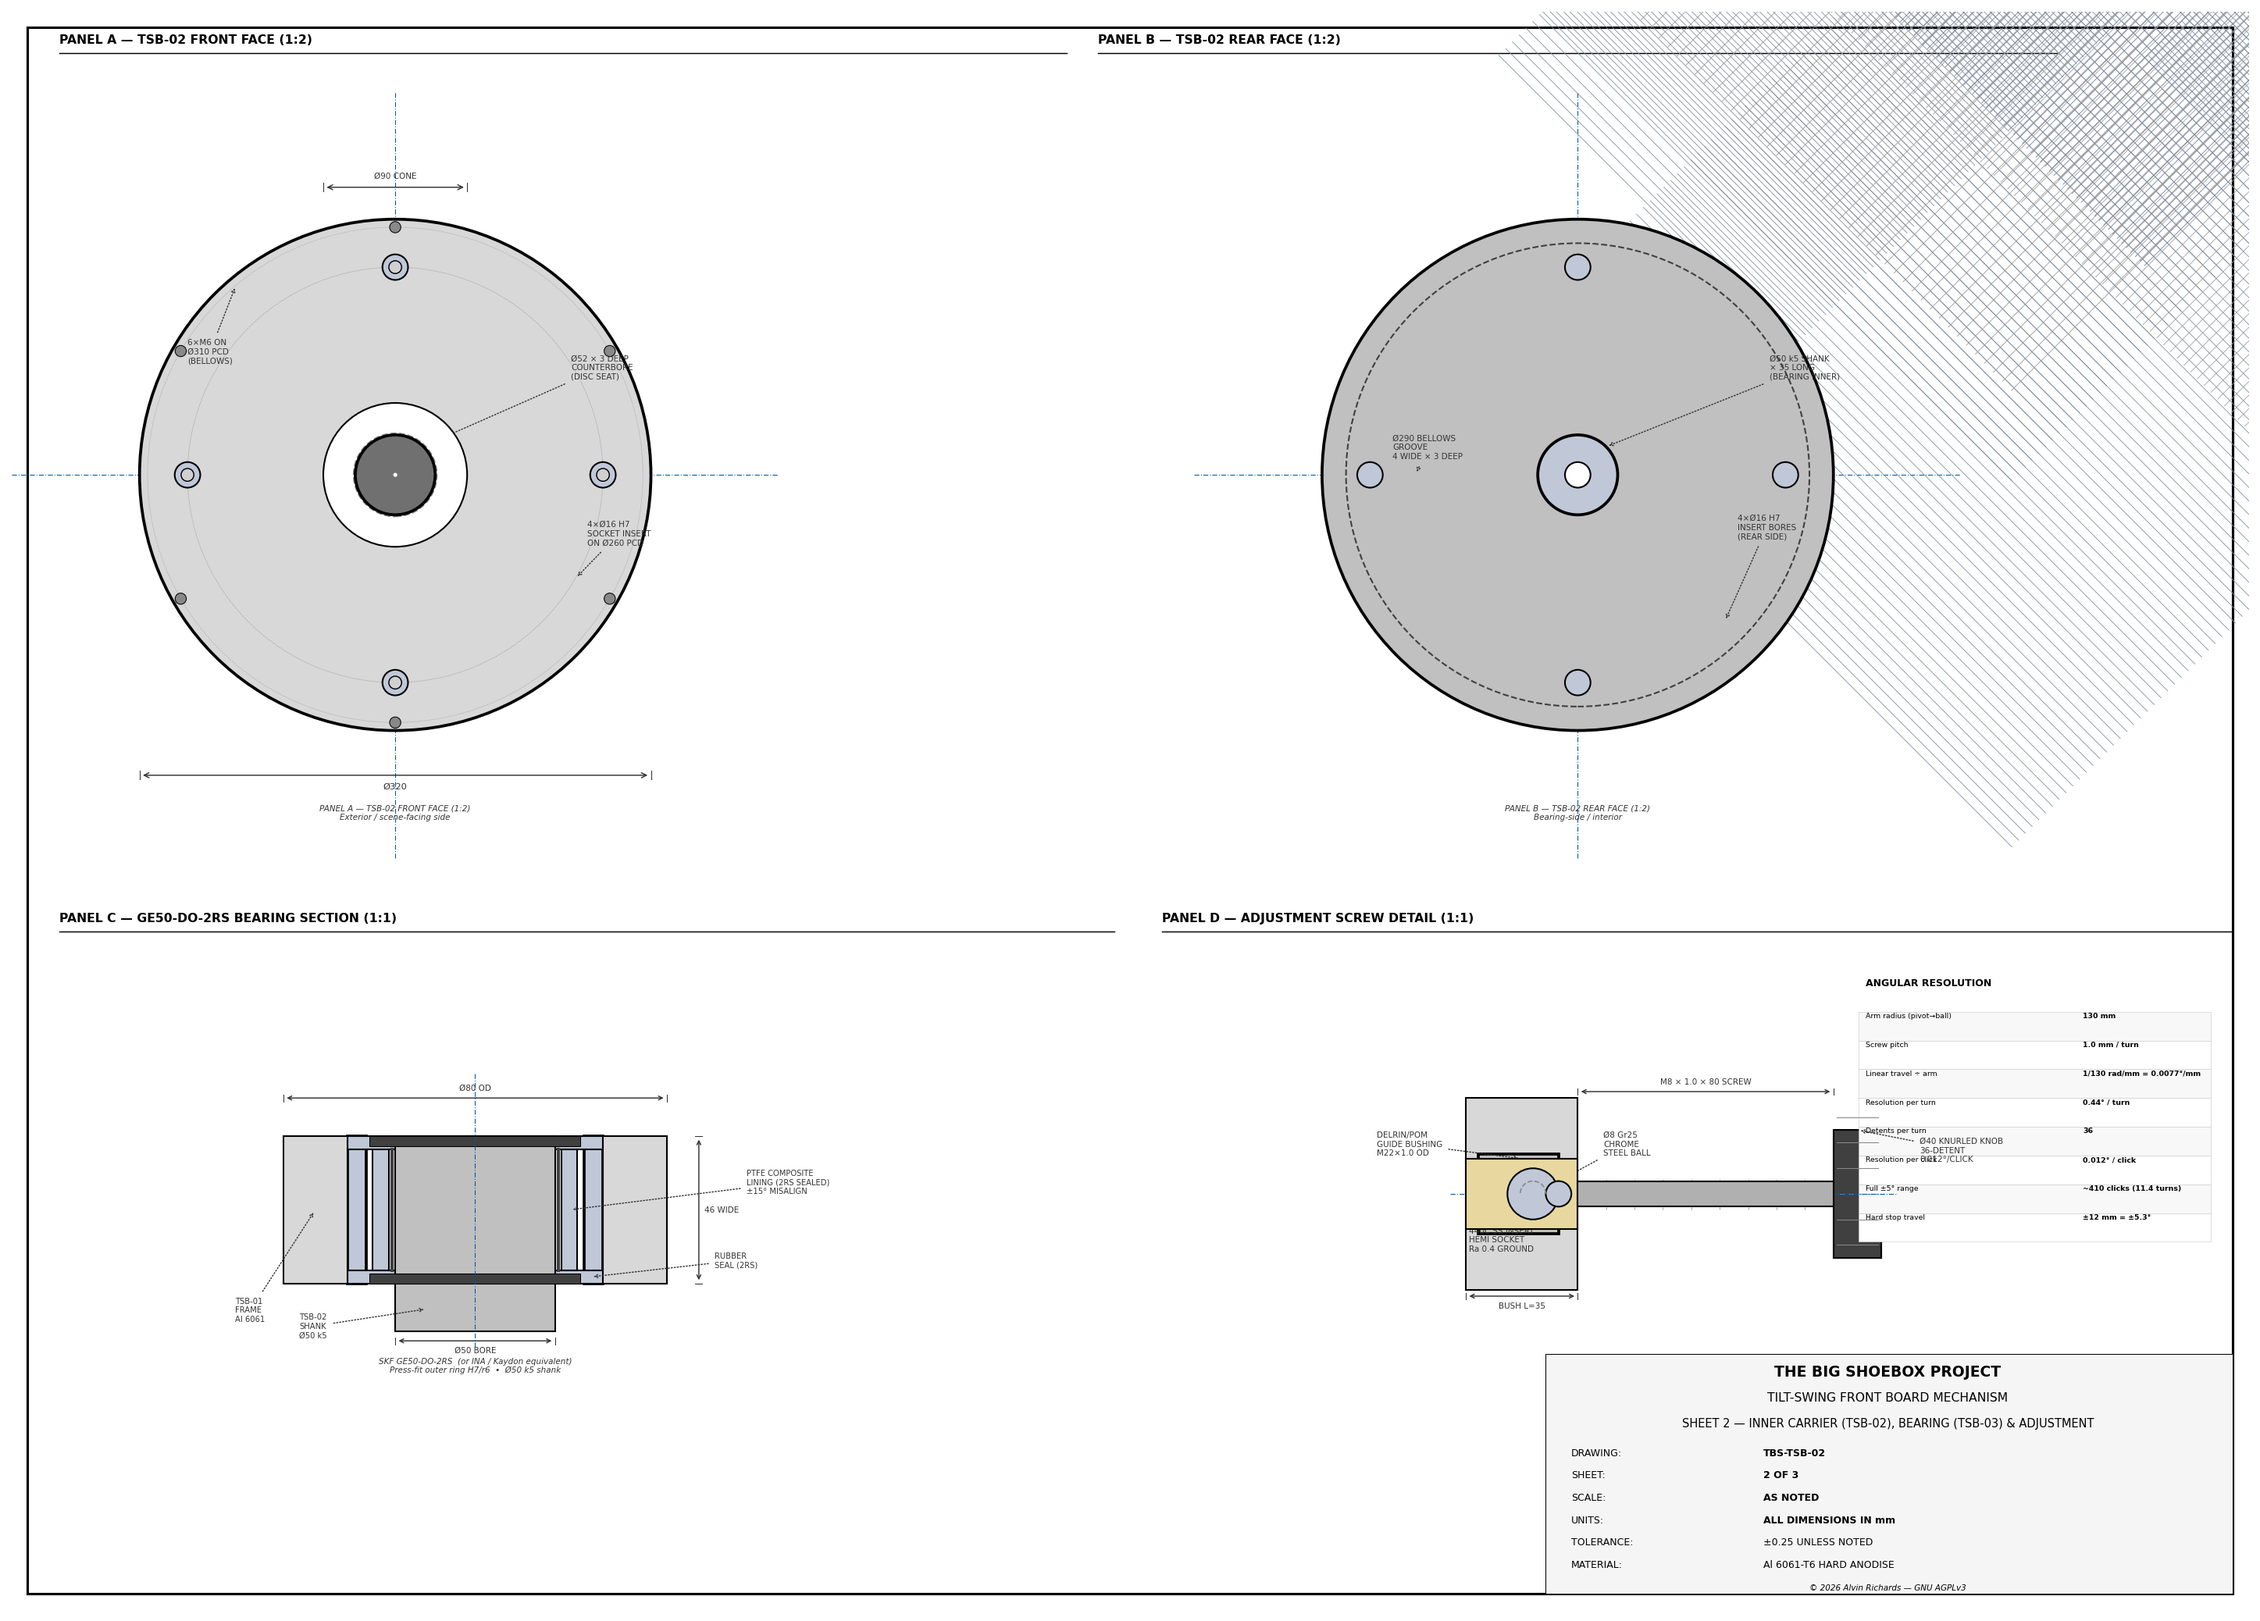
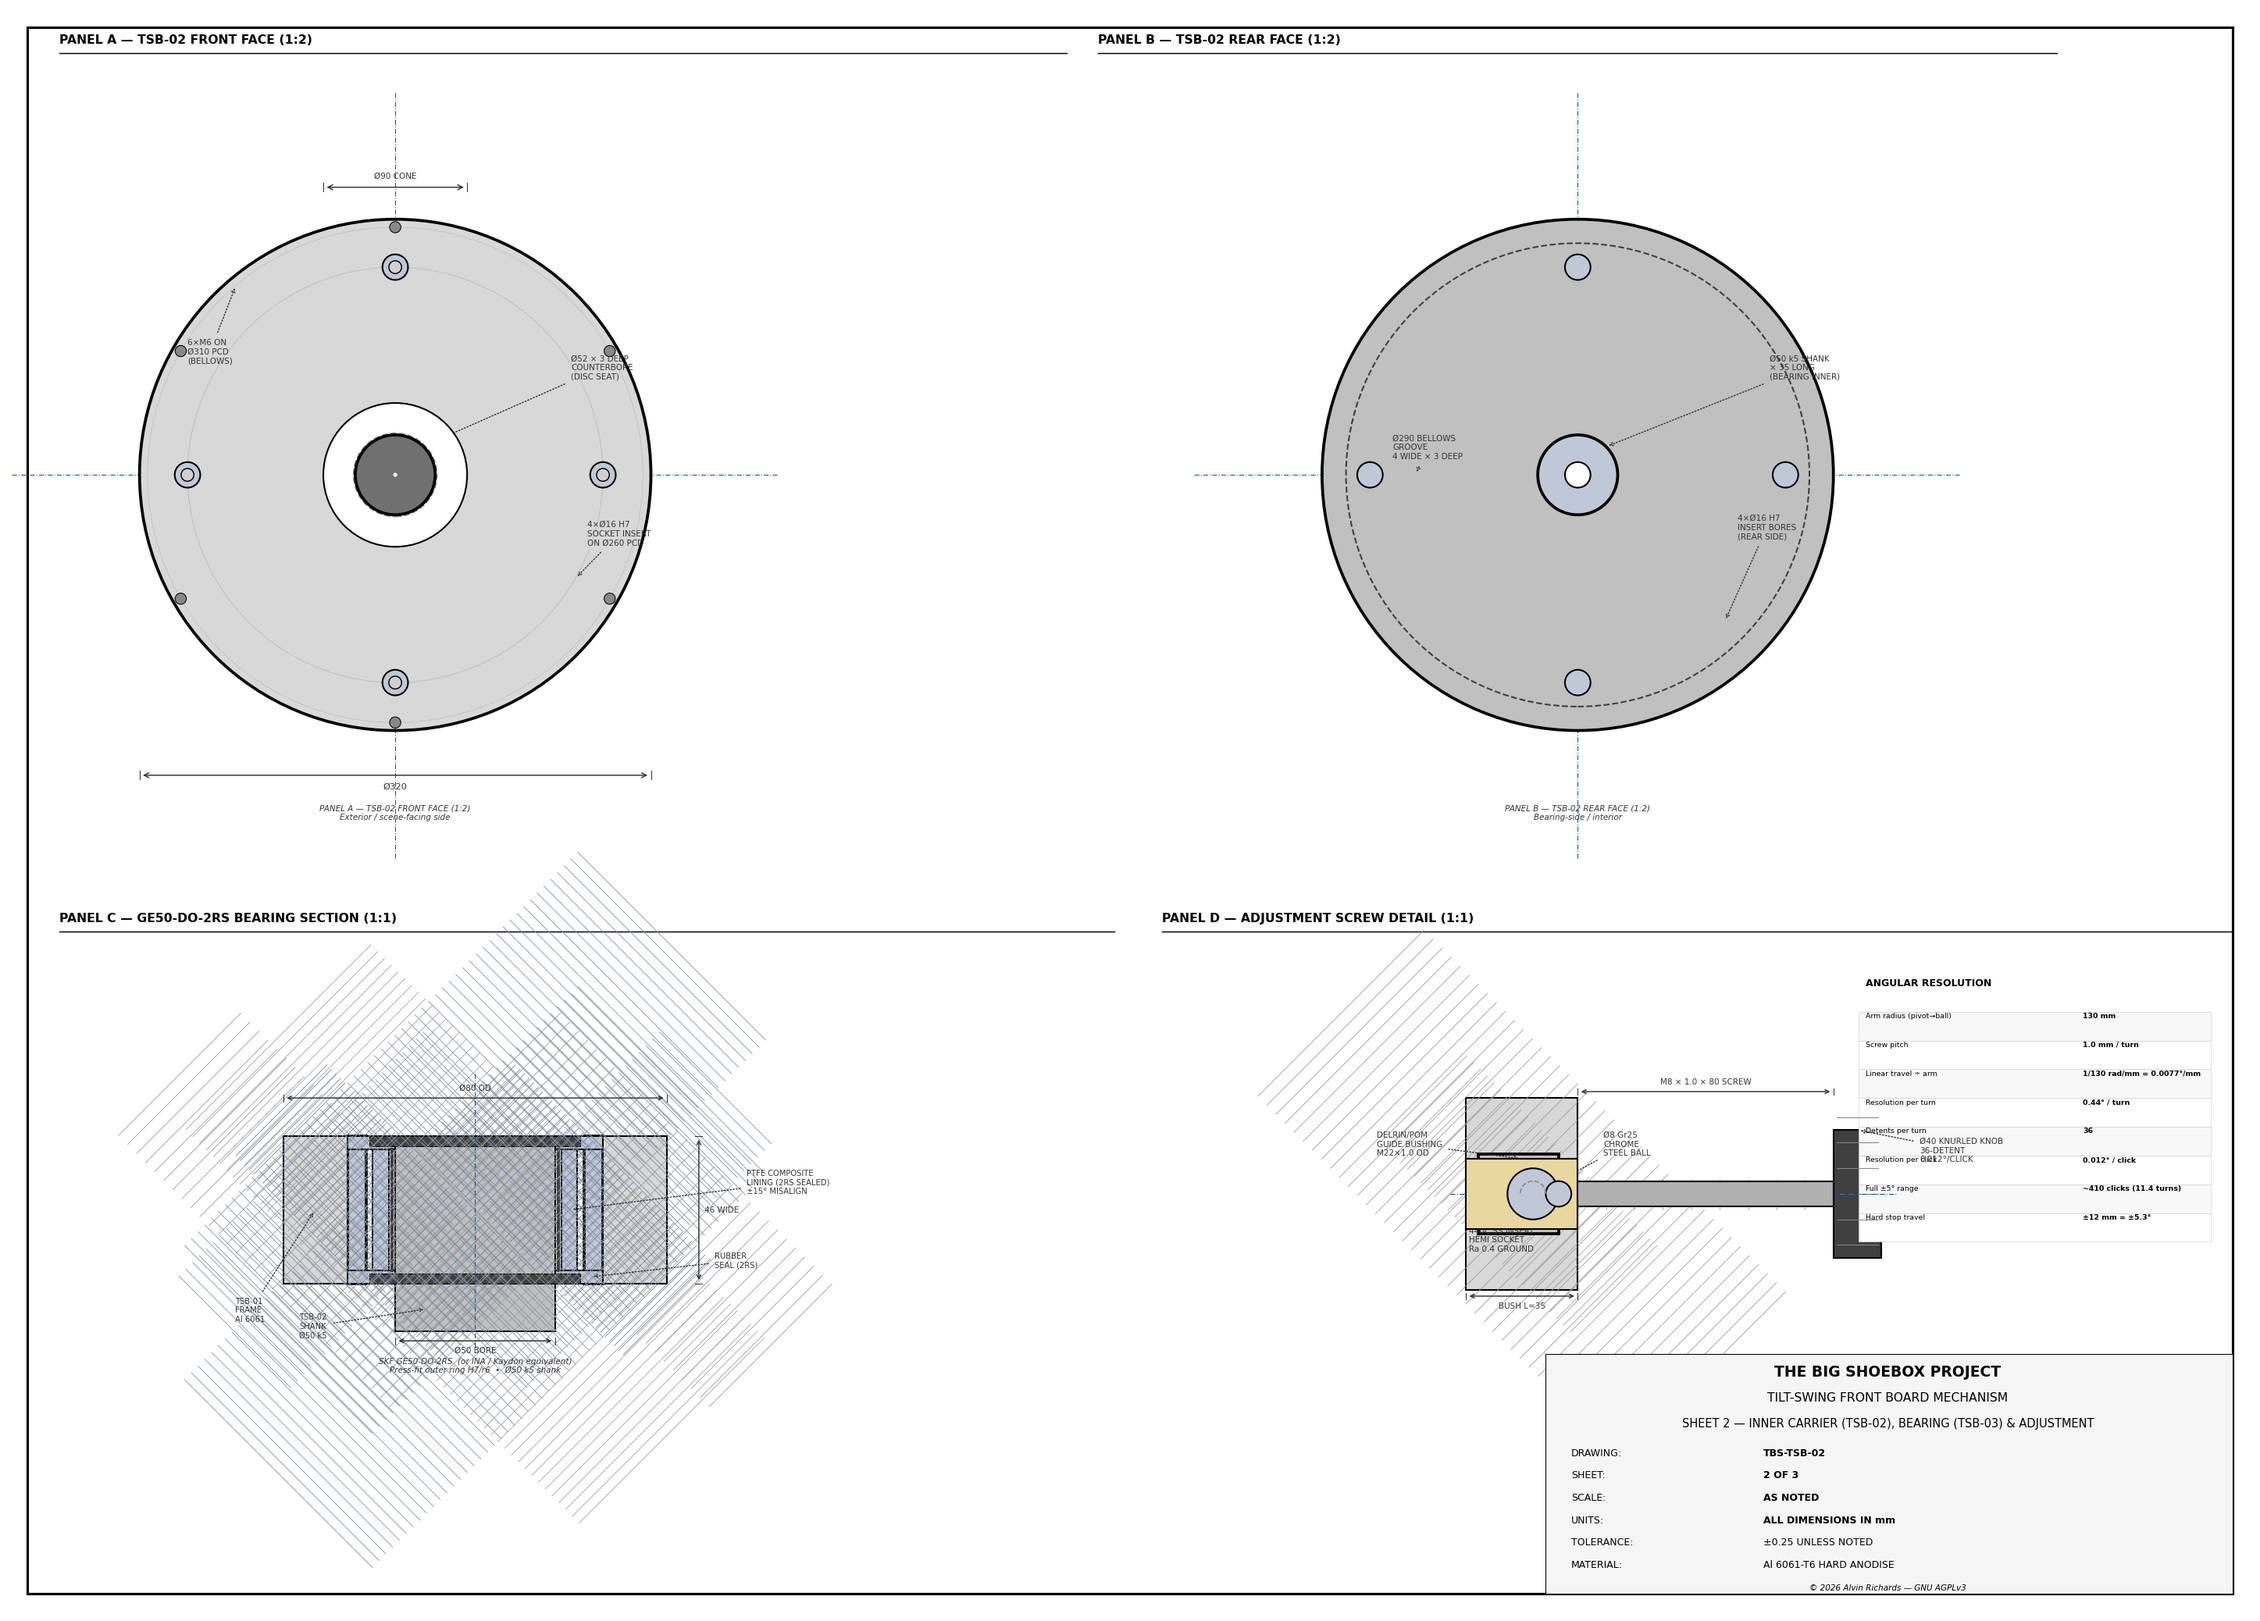
Fix hatch_region using display coords instead of data coords
hatch_region() called patch.get_extents() which returns display (pixel)
coordinates before rendering — producing hatch lines at wrong positions
that bled across the figure. Now uses patch.get_xy/get_width/get_height
for correct data-coordinate bounds. Fixes Panel C knob being partially
hidden on Sheet 3 and removes stray diagonal hatching.

diff --git a/generate_tilt_swing_board.py b/generate_tilt_swing_board.py
@@ -155,20 +155,22 @@ def bolt_holes(ax, cx, cy, bc_r, n, d_r, color=C_OUT, lw=LW_MED, angle_offset=22
         draw_circle(ax, bx, by, d_r, lw=lw, color=color)
 
 def hatch_region(ax, patch, spacing=3, angle=45, color='#AAAAAA', lw=0.5):
-    """Hatch inside an existing patch."""
-    bb = patch.get_extents()
-    x, y = bb.x0, bb.y0
-    w, h = bb.width, bb.height
+    """Hatch inside an existing Rectangle patch using data coordinates."""
+    # Use data-coordinate bounds directly (get_extents returns display coords
+    # which are invalid before rendering and cause misplaced hatch lines)
+    x, y = patch.get_xy()
+    w = patch.get_width()
+    h = patch.get_height()
     angle_r = np.radians(angle)
     diag = np.sqrt(w**2 + h**2) + spacing
     n = int(diag / spacing) + 2
-    cx2, cy2 = x + w/2, y + h/2
+    cx_h, cy_h = x + w/2, y + h/2
     for i in range(-n, n+1):
-        offset = i * spacing
+        off = i * spacing
         dx = diag * np.cos(angle_r)
         dy = diag * np.sin(angle_r)
-        px0 = cx2 + offset * np.cos(angle_r + np.pi/2) - dx/2
-        py0 = cy2 + offset * np.sin(angle_r + np.pi/2) - dy/2
+        px0 = cx_h + off * np.cos(angle_r + np.pi/2) - dx/2
+        py0 = cy_h + off * np.sin(angle_r + np.pi/2) - dy/2
         ax.plot([px0, px0+dx], [py0, py0+dy],
                 color=color, lw=lw, clip_path=patch, clip_on=True)
 
